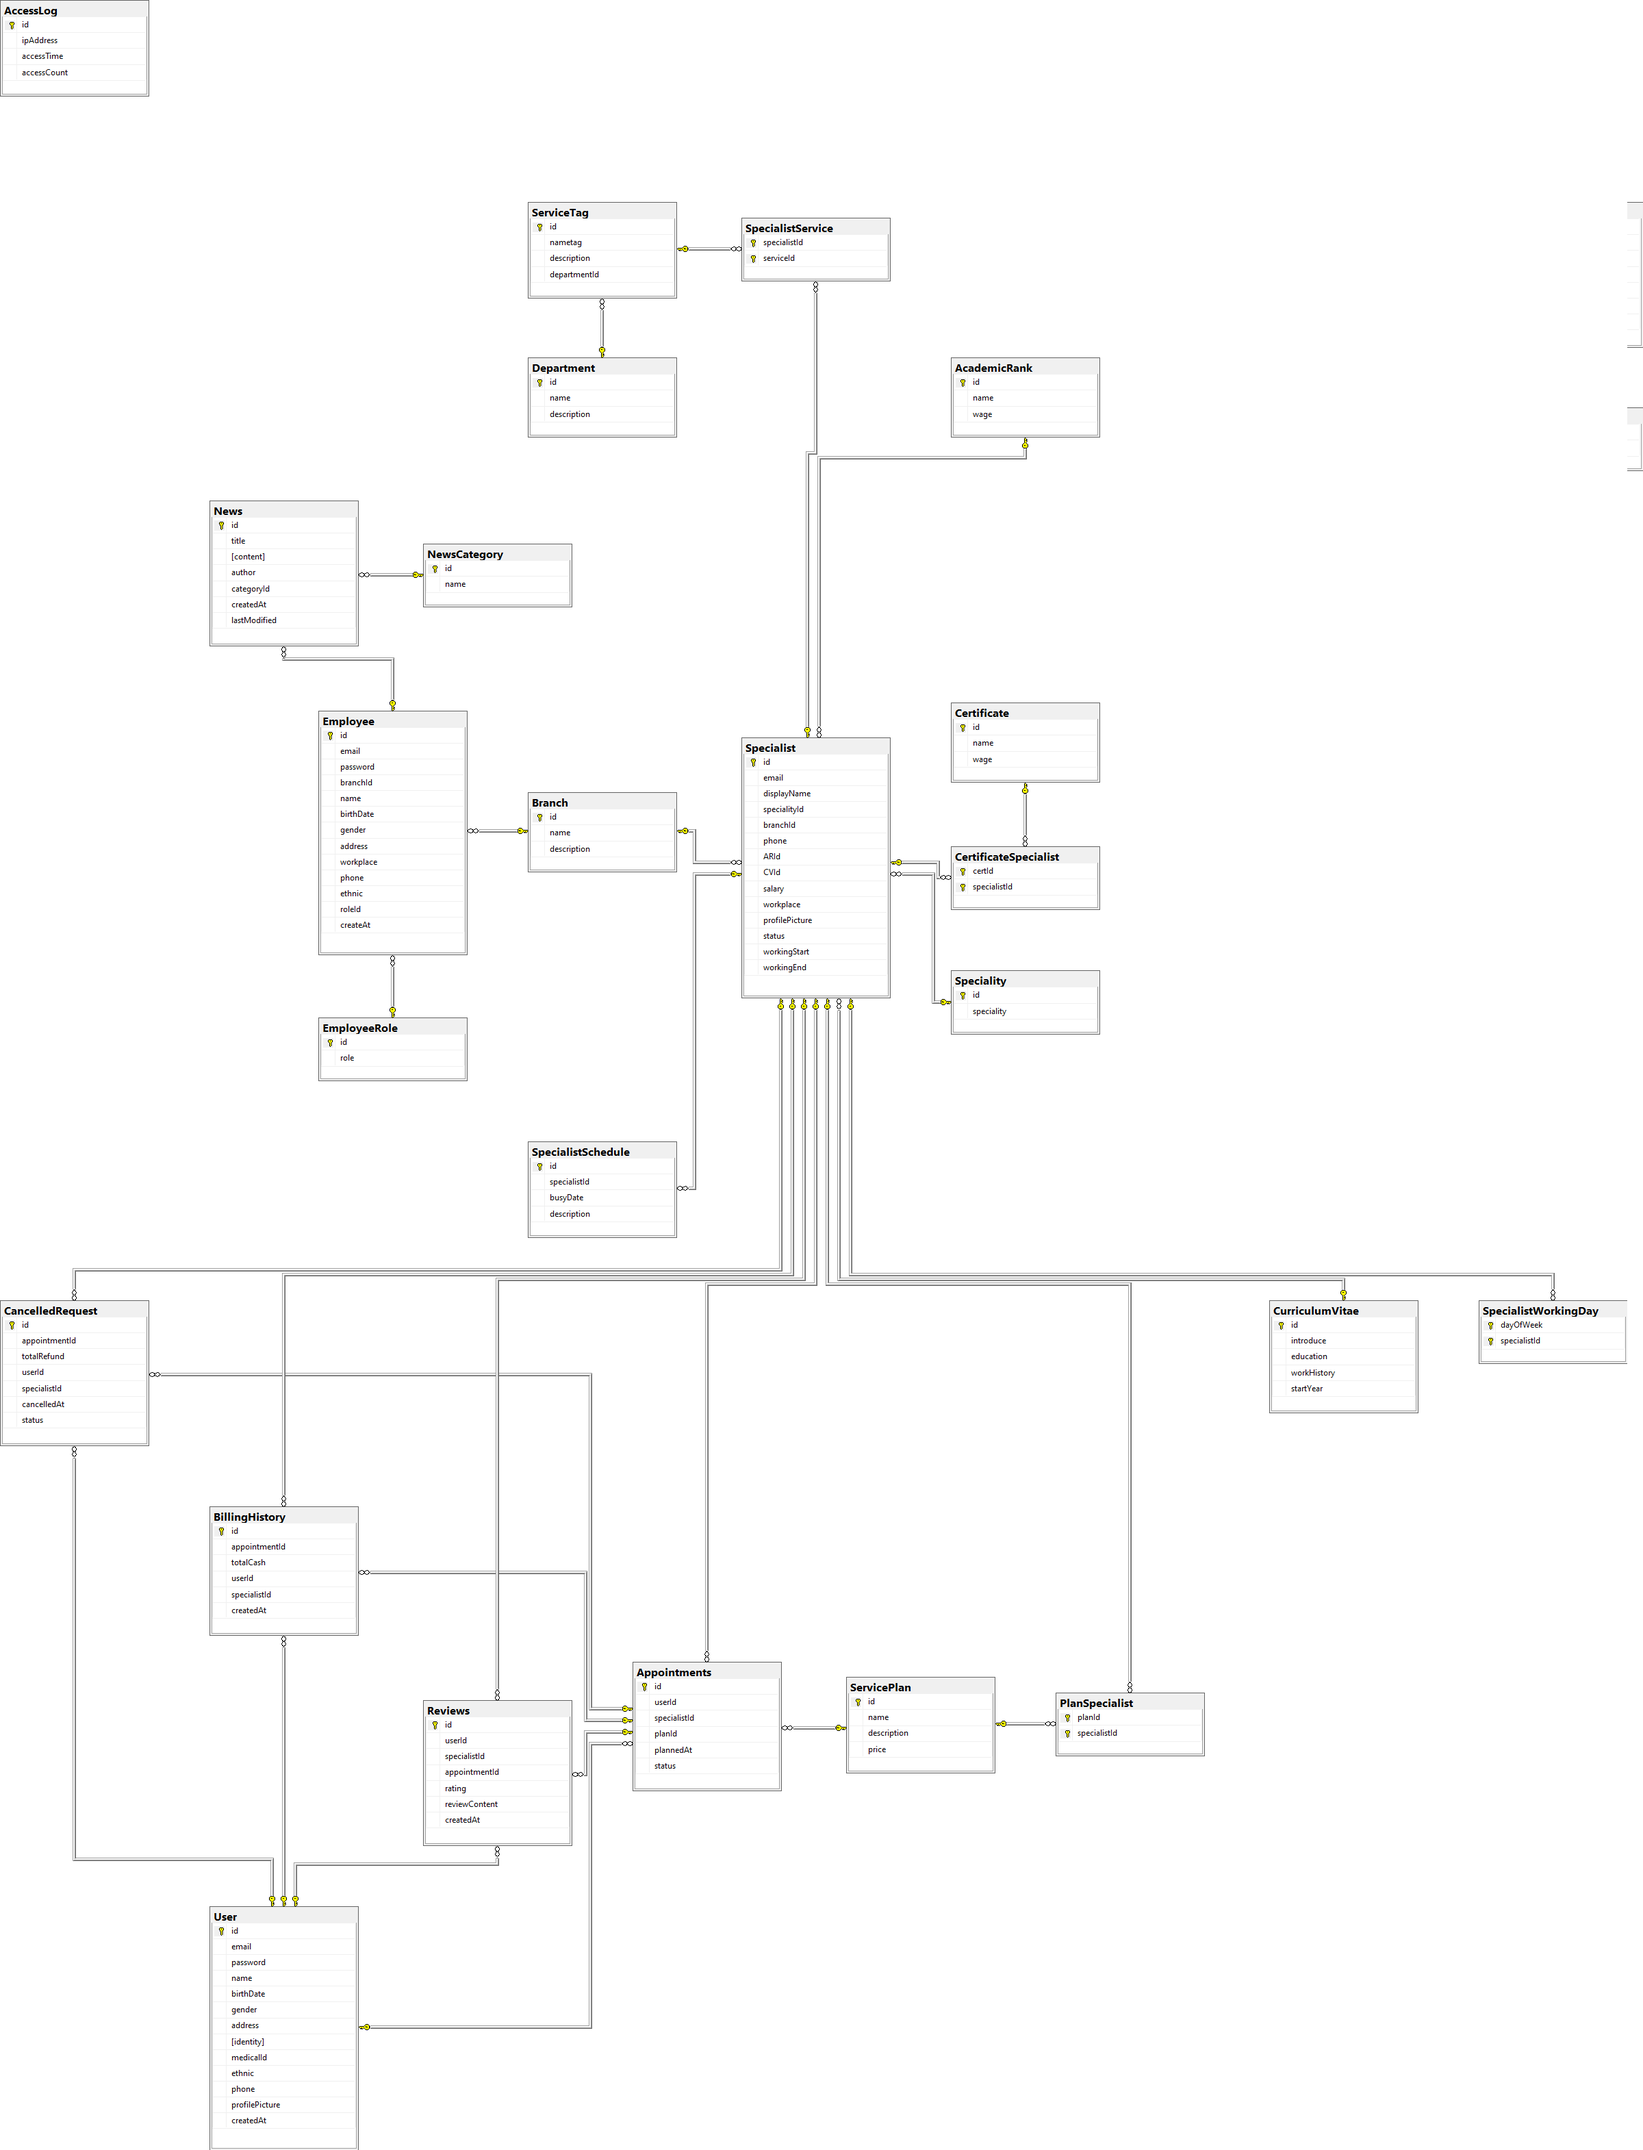
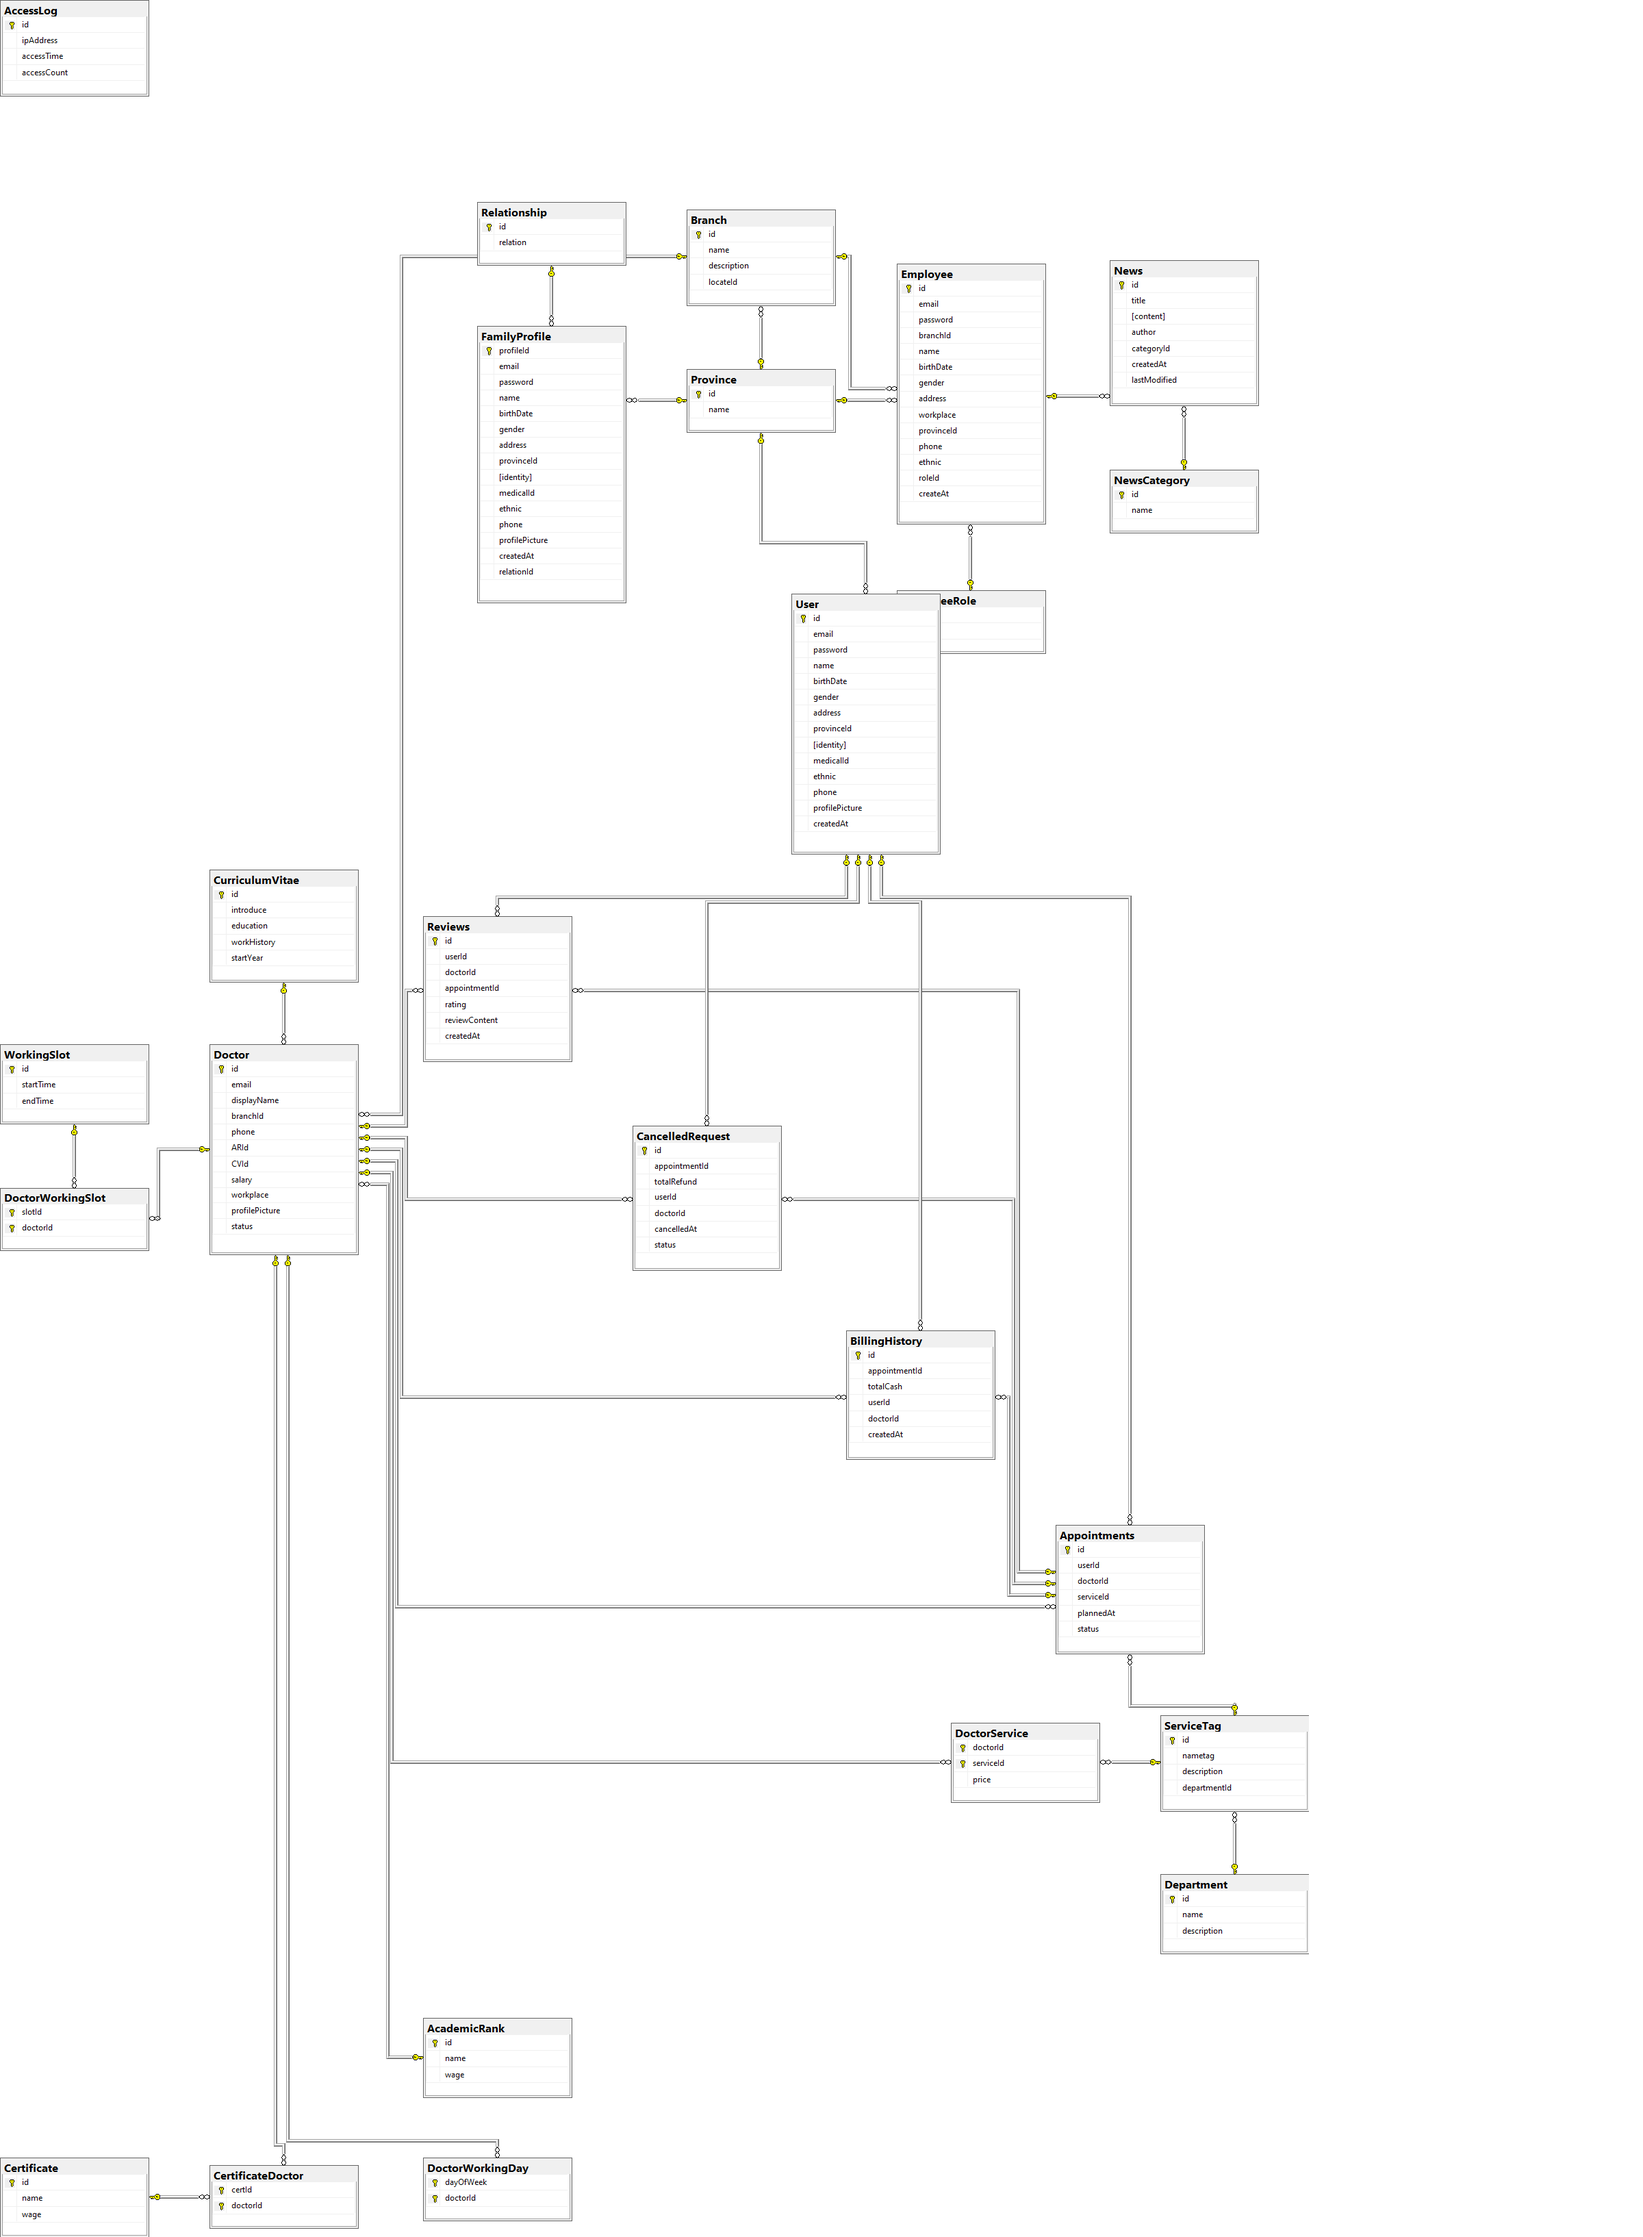
Official major update for DBv3.2

diff --git a/database/README.md b/database/README.md
@@ -2,22 +2,35 @@
 
 =================================================================
 
-### v3.2 Major update: ###
+### v3.2 MAJOR UPDATE!!! ###
 
+#### ADDED: ####
 - Add table Employee (id, email, password, name, birthDate, gender, address, workplace, phone, ethnic, roleId, createAt)
-- Add table ServiceTag (id, name, description, departmentId) which stands for services that specialist can do treatment.
-- Add table SpecialistService(specialistId, serviceId) that represents all the services that specialist can do treatment.
+- Add table ServiceTag (id, name, description, departmentId) which stands for services that doctor can do treatment.
+- Add table DoctorService(doctorId, serviceId) that represents all the services that doctor can do treatment.
 - Add table Department that represents the departments provided in the medical system.
-- Add an attribute named status for Specialist table, which will decide this Specialist is temporary working or official employee for the organization.
+- Add an attribute named 'status' for Doctor table, which will decide this Specialist is temporary working or official employee for the organization.
 - Add table 'Branch' for the hospitals branch.
-- Table AdminRole now changes to EmployeeRole, now represents the Role of Employee in the system (which may include CEO, Content Creator, Manager, or Administrator...)
-- Table Category now changes to NewsCategory
-- Table Plan now changes to ServicePlan
-- Remove 'accepted' and 'completed' in Appointments table. 'status' will now replace them.
-- CancelledRequest now has 'status' attribute.
+- Add table 'Province' representing the provinces in Vietnam.
+- Add attribute 'provinceId' for the table 'Employee', 'User'.
 - Add 'appointmentId' attribute to the Reviews table, a complete Appointment should left a Review.
 - Add AccessLog table to tracking the accesses of web users.
 
+#### CHANGE LOGS: ####
+- Table AdminRole now changes to EmployeeRole, now represents the Role of Employee in the system (which may include CEO, Content Creator, Manager, or Administrator...)
+- Table Category now changes to NewsCategory
+- Table Plan now changes to ServicePlan
+- CancelledRequest now has 'status' attribute.
+- Table 'Specialist' now becomes 'Doctor'
+- All 'Specialist'-related now become 'Doctor'-related 
+
+#### REMOVED: ####
+- Remove 'Speciality' table, because 'ServiceTag' is overwritten its job. Also remove its associated attributes from other tables.
+- Remove 'accepted' and 'completed' in Appointments table. 'status' will now replace them.
+- Remove 'ServicePlan and PlanSpecialist' tables from the database.
+- Remove 'SpecialistSchedule' tables from the database, replace them with 'DoctorWorkingDay'
+
+###### Special thanks to binhntt, thaitn and ynt4 for contributions to this update. #######
 
 =================================================================
 
